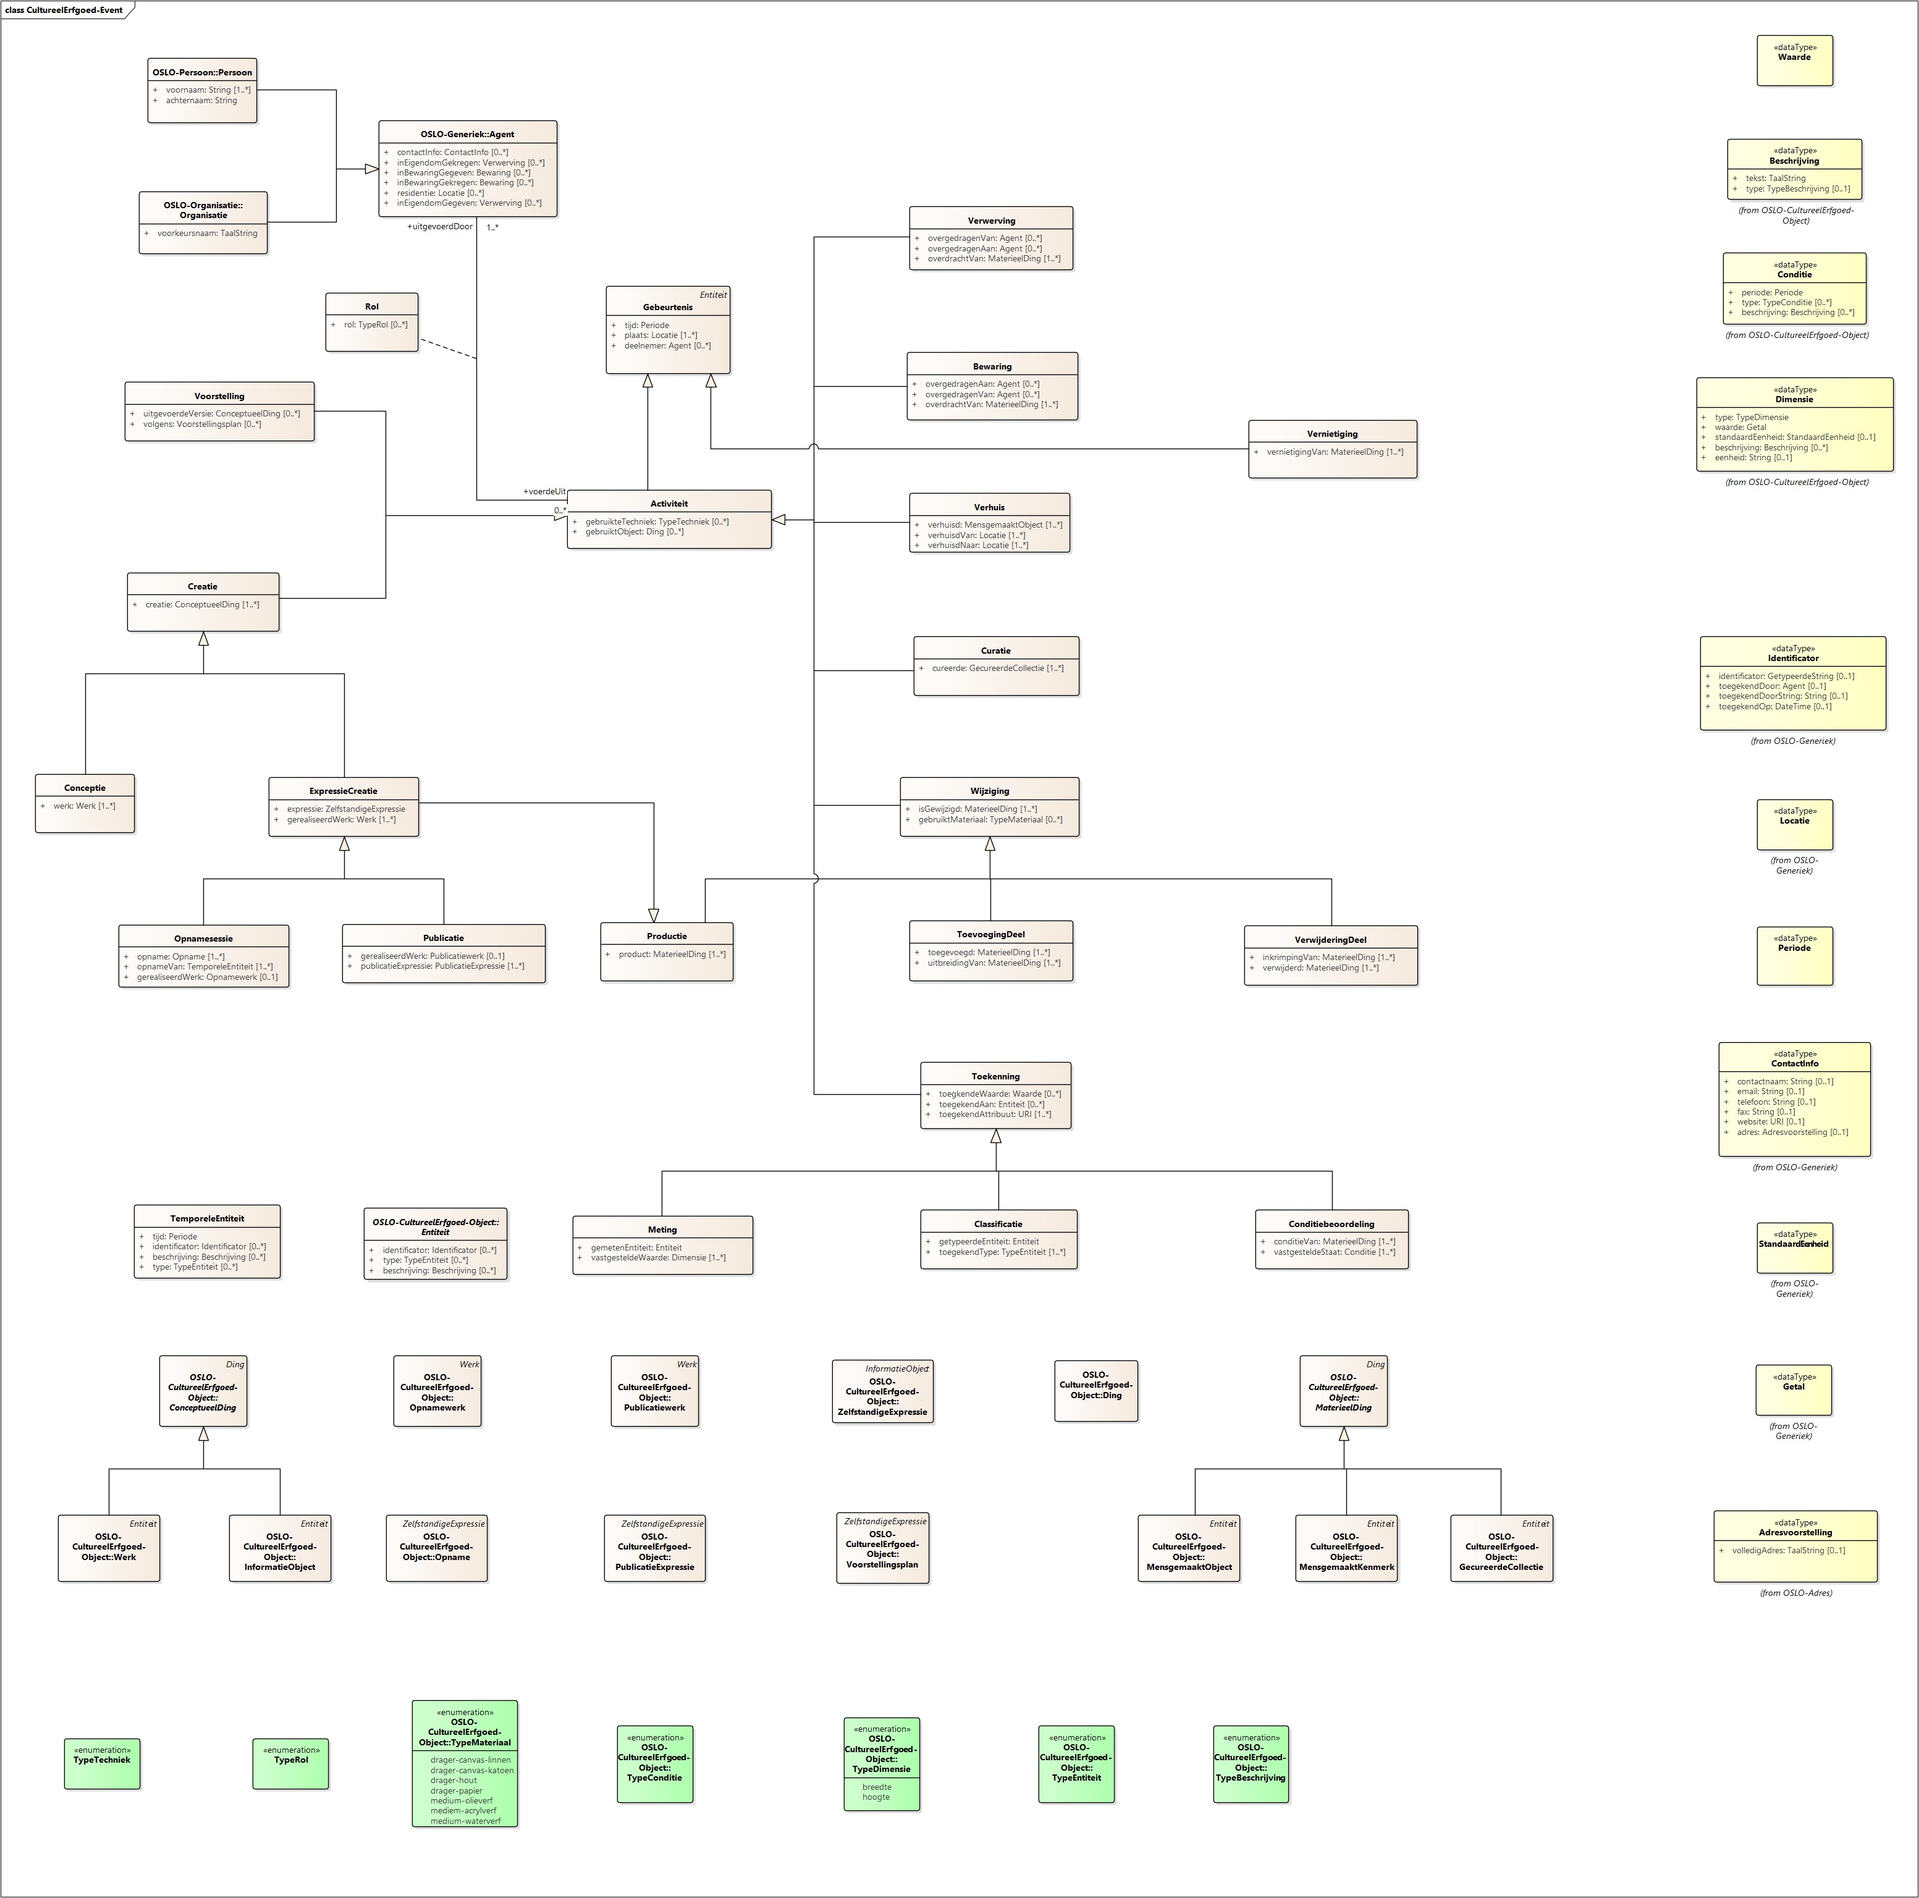
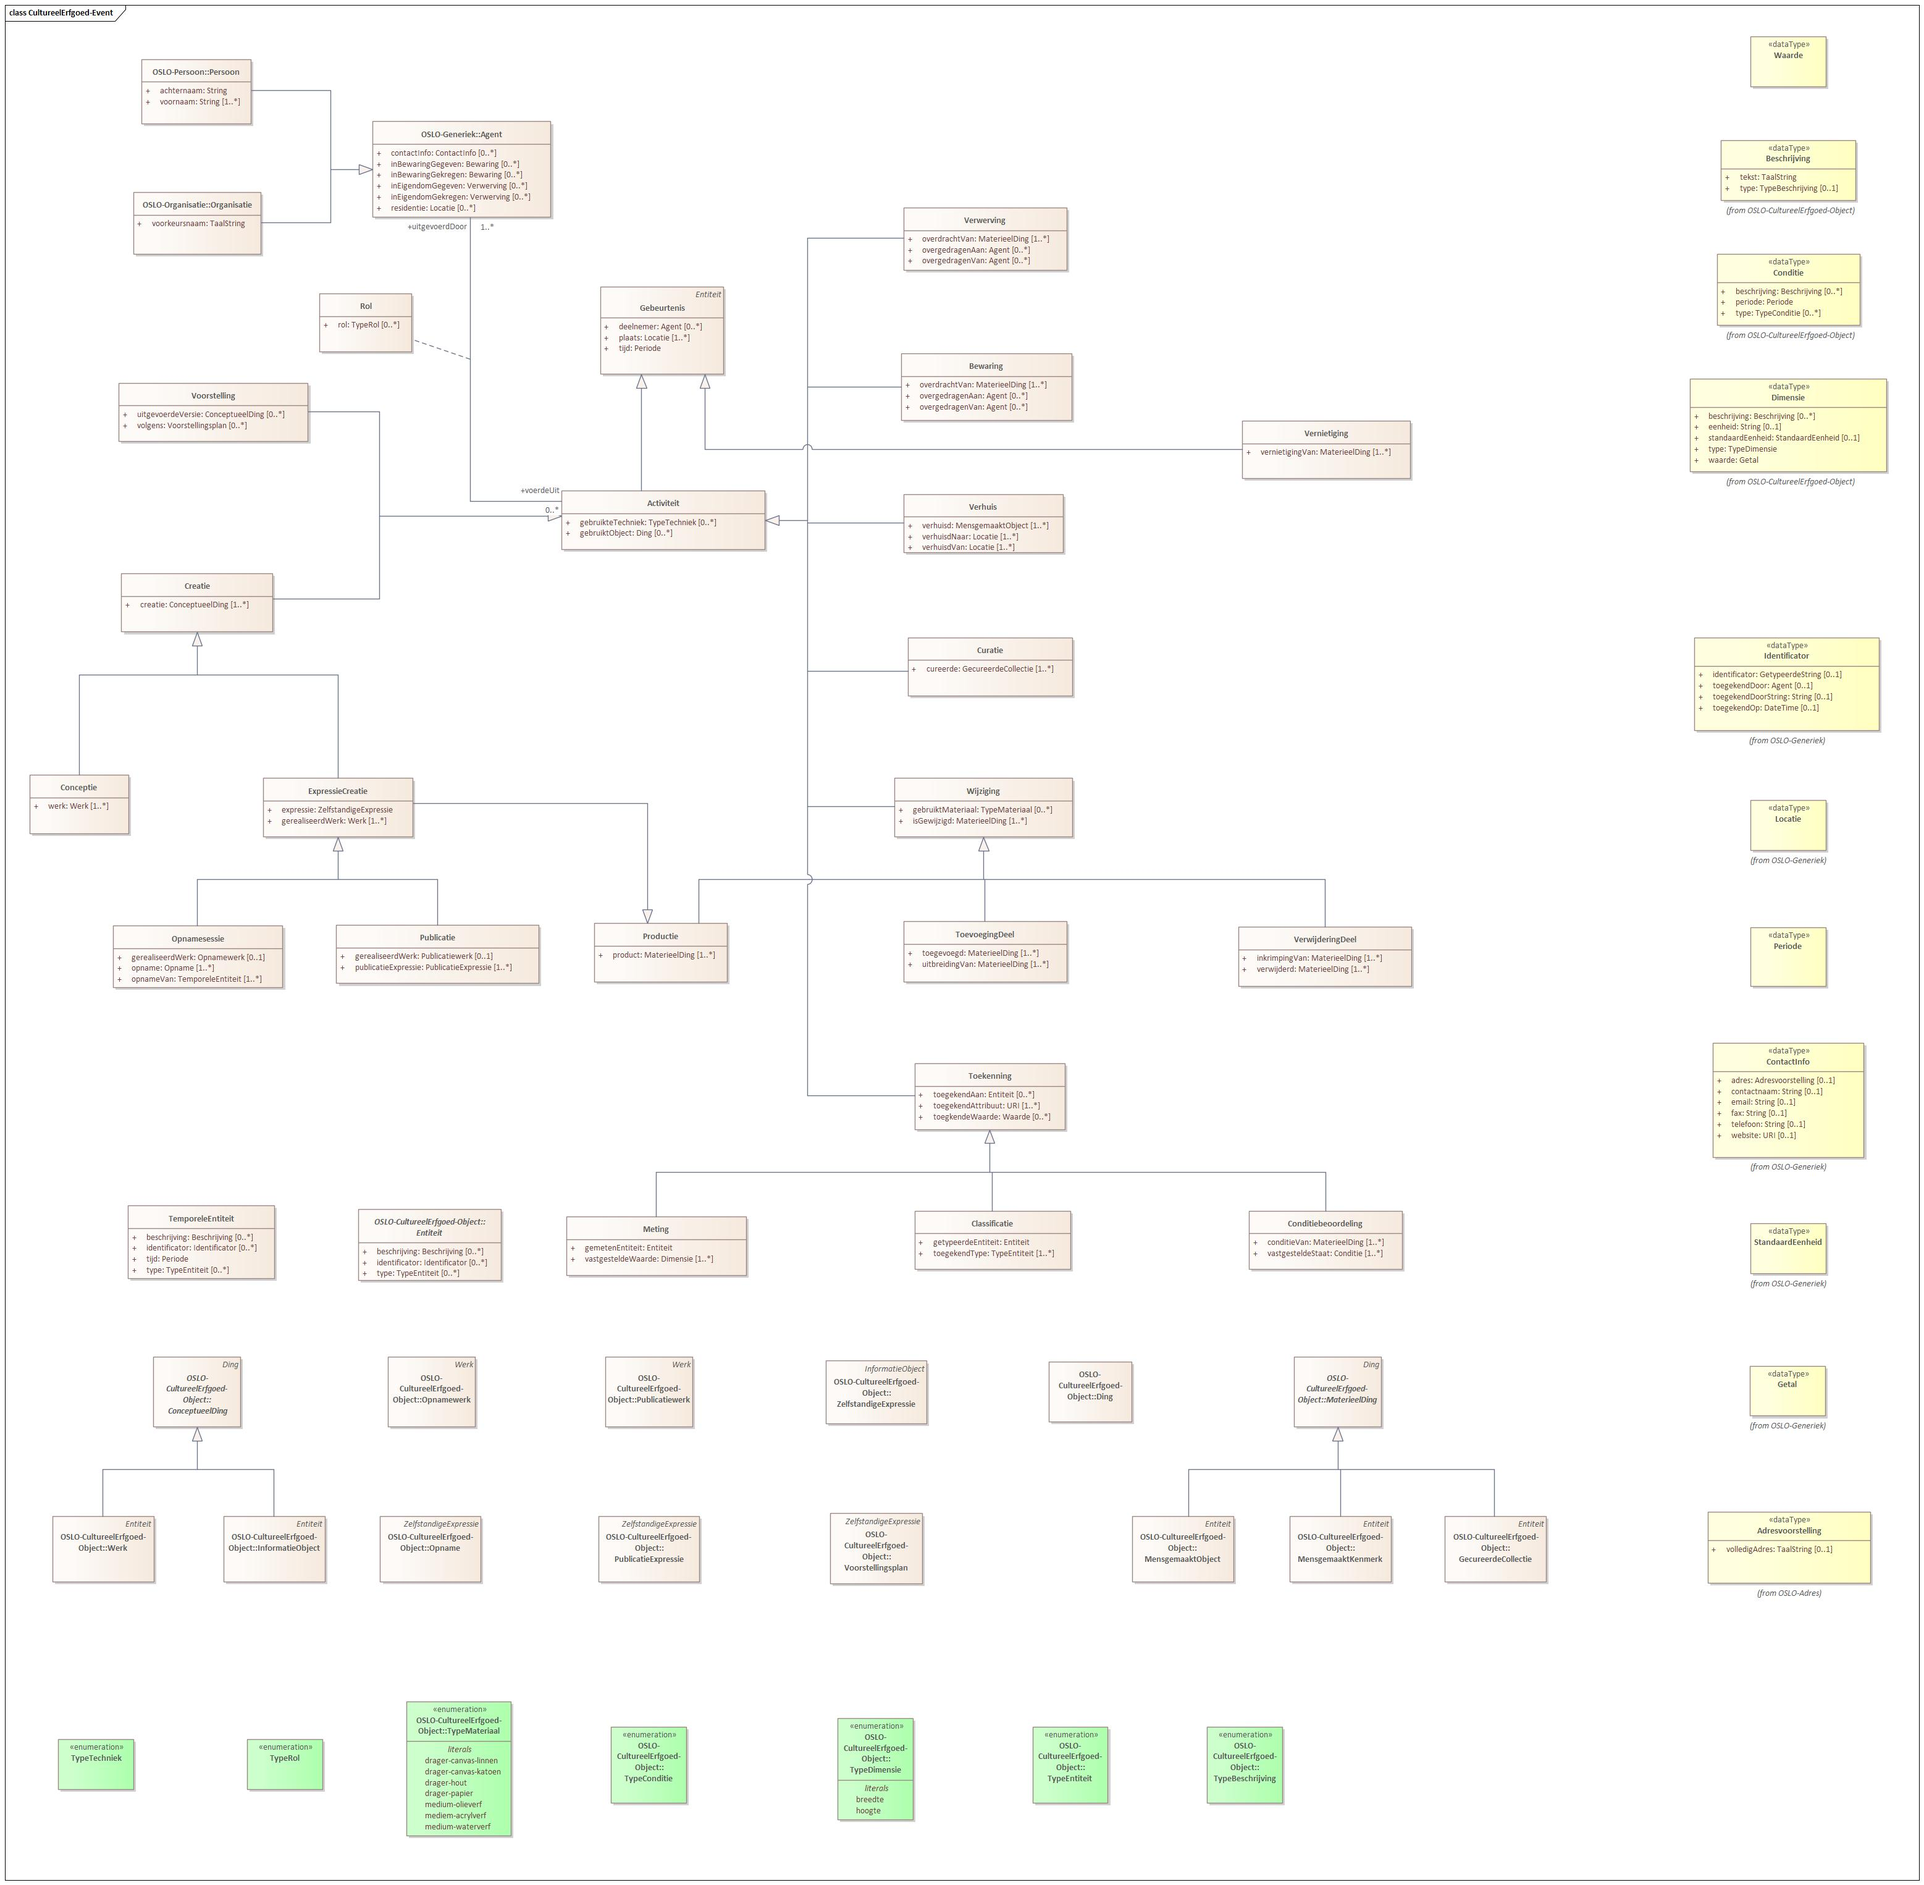
Event AP: overview diagram

diff --git a/CHANGELOG.md b/CHANGELOG.md
@@ -17,6 +17,7 @@ and this project adheres to [Semantic Versioning](https://semver.org/spec/v2.0.0
 - Event AP: PascalCase and CamelCase
 - Event AP: Replace abbreviations
 - Event AP: add missing dot at end of sentences
+- Event AP: overview diagram
 - Object AP: reassigned ranges of certain properties
 - Object AP: Relationship ComplexWerk -- heeftComponent --> Werk
 - Object AP: Relationship ConceptueelDing -- heeftComponent --> ConceptueelDing
